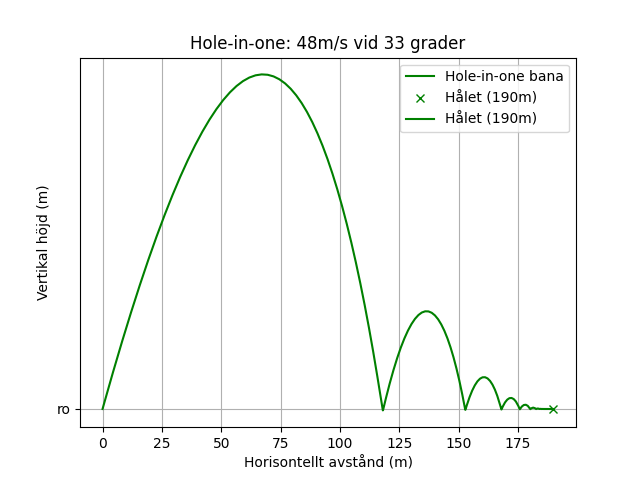
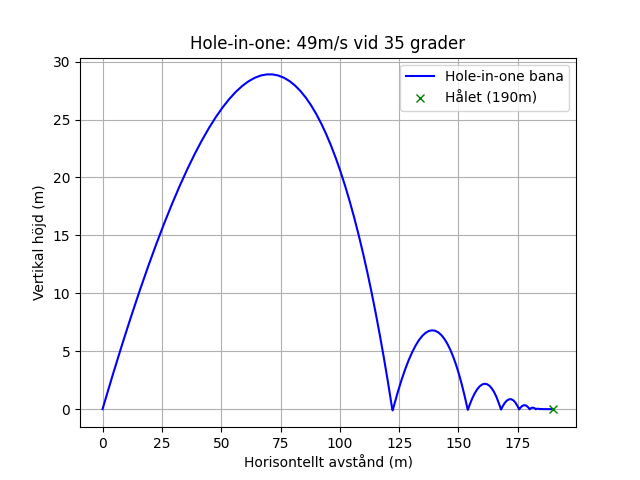
Fullt fungerande graf

diff --git a/steg4.py b/steg4.py
@@ -119,34 +119,31 @@ def optimalangle():
 
 
 def find_hole_in_one():
-    # Parametrar för hålet enligt instruktionerna
-    vhalmax = 0.2  # [cite: 66]
-    windspeed = -5 # Motvind 
+    vhalmax = 0.2
     
-    # Vi testar ett intervall av hastigheter och vinklar
-    for velocity_test in range(40, 70): # Testa hastighet mellan 40-70 m/s
-        for angle_test in range(10, 45): # Testa vinkel mellan 10-45 grader
+    for velocity_test in range(40, 70): 
+        for angle_test in range(10, 45):
             
             test_rad = math.radians(angle_test)
             v0_x = math.cos(test_rad) * velocity_test
             v0_y = math.sin(test_rad) * velocity_test
             u_test = [0, 0, v0_x, v0_y]
 
-            # Kör simuleringen
+            # simuleringen
             sol = i.solve_ivp(
                 fun=forcecalc,
                 t_span=[0, 20],
                 y0=u_test,
-                events=ballstop, # Din befintliga event-funktion som stoppar vid vx ~ 0
+                events=ballstop,
                 max_step=0.1
             )
 
-            # Kontrollera slutposition och sluthastighet
+            # hämta slutposition och hastighet
             final_x = sol.y[0][-1]
             final_vx = sol.y[2][-1]
 
-            # Om vi är nära hålet (190m) och bollen rullar tillräckligt sakta
-            if abs(final_x - xhal) < 0.5 and final_vx < vhalmax:
+            # Om vi är nära hålet (190m) och bollen rullar tillräckligt sakta  
+            if abs(final_x - xhal) < 0.02 and final_vx < vhalmax:
                 print("--- HOLE IN ONE HITTAD! ---")
                 print(f"Utgångshastighet: {velocity_test} m/s")
                 print(f"Vinkel: {angle_test} grader")
@@ -162,8 +159,8 @@ result = find_hole_in_one()
 if result:
     v0_opt, angle_opt, hole_sol = result
     plt.figure()
-    plt.plot(hole_sol.y[0], hole_sol.y[1], 'g-', label='Hole-in-one bana')
-    plt.plot(xhal, 0, 'x', 'ro', label='Hålet (190m)', color='green')
+    plt.plot(hole_sol.y[0], hole_sol.y[1], 'b-', label='Hole-in-one bana')
+    plt.plot(xhal, 0, 'x', label='Hålet (190m)', color='green')
     plt.title(f'Hole-in-one: {v0_opt}m/s vid {angle_opt} grader')
     plt.xlabel('Horisontellt avstånd (m)')
     plt.ylabel('Vertikal höjd (m)')
